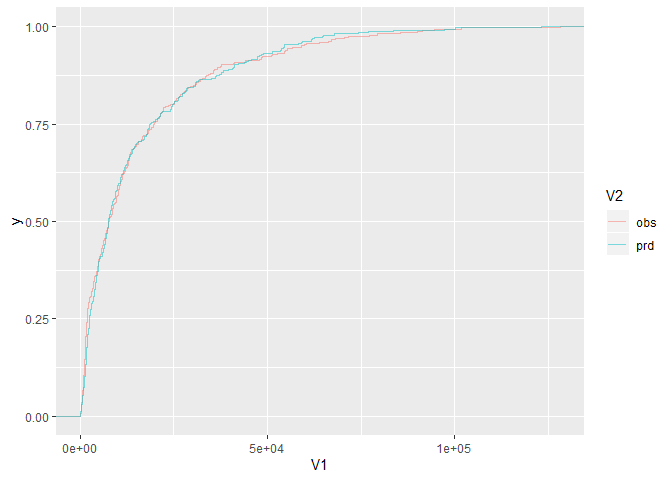
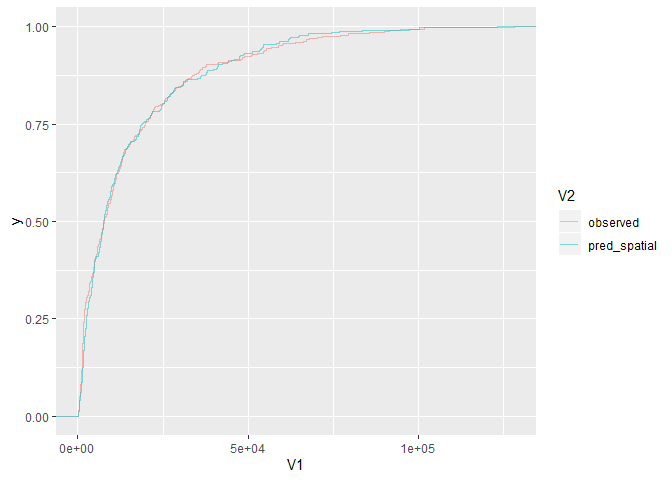
draft 2: fixed some labeling

diff --git a/R/Params/linkHBS_VRI_Calibtation.md b/R/Params/linkHBS_VRI_Calibtation.md
@@ -583,9 +583,9 @@ Here we compare the cummulative dsitributions to see any deviations between the 
 
 ```r
 #ECDF
-auto.2$surf<-"obs"
+auto.2$surf<-"observed"
 obs.1<-cbind(test.auto.data$obs_vol,auto.2$surf)
-auto.2$surf<-"prd"
+auto.2$surf<-"pred_spatial"
 proj.1<-cbind(test.iid.data$mu,auto.2$surf)
 
 data.78<-rbind(obs.1, proj.1)
@@ -647,21 +647,21 @@ Now that the spatial model has passed the modelling assumptions. Let explore the
 
 First, the results from this modelling exercise suggest that the spatial model that accounts for the correlation between residuals is a better model. Using a spherical variogram model allowed individual observations to be weighted more effectively so that the effect of dependance was reduced. This provided a model that produced an estimated total volume that was closer to the observed total volume which is important for determining forestry decisions like AAC targets. 
 
-Next, the effects of the predictor variables in the spatial model showed that the meta-model of vdyp was over predicting total volume in harvet units that had larger volumes. It should be noted that this effect cannot be seperated into errors individually generated by VDYP nor the VRI, but rather their combined effect. The management implications for timber supply models and AAC analysis would be: i) in the strategic design of landscapes, developing more aggregated or larger harvest blocks in terms of is often of interest to reduce the fragmentation of the landscape - however in those cases where the large blocks result in larger volumes, the realized volume from these larger blocks was shown to be considerably less than one would expect from a naive projection using the VRI and the meta-model of vdyp, ii) further there is evidence of greater uncertainty in the AAC if the profile of harvest units are much larger in size, iii) the uncertainty in AAC can be reduced in higher elevation and harvest units with forest structure that is taller in terms of tree height. 
+Next, the effects of the predictor variables in the spatial model showed that the meta-model of vdyp was over predicting total volume in harvest units that had larger volumes. It should be noted that this effect cannot be seperated into errors individually generated by VDYP nor the VRI, but rather it is their combined effect. The management implications for timber supply models and AAC analysis would be: i) in the strategic design of landscapes, developing more aggregated or larger harvest blocks is often of interest to reduce the fragmentation of the landscape - however in those cases where the large blocks result in larger volumes, the realized volume from these larger blocks was shown to be considerably less than one would expect from a naive projection using the VRI and the meta-model of vdyp, ii) further there is evidence of greater uncertainty in the AAC if the profile of harvest units were much larger in size or from highly yielding stands, iii) the uncertainty in AAC can be reduced if the harvest profile prioritizes harvest units at higher elevation and harvest units with forest structure that is taller in terms of tree height. 
 
 I would speculate:
 
-* Harvest units with greater footprint may translate into a larger volume harvested and thus greater uncertainty. These larger units could also mean a greater number of different stands would be incorporated into the harvesting profile. Increasing the number of stands in a harvest profile may increase the probability of including polygons within the VRI that are erroneous. Conversely, for harvest units that are realtively smaller but still result in large volumes (i.e., highly productive areas) the total volume could be overestimated given the meta-model of vdyp was not taking into account other layers within the vertical structure. Thus, the meta-model of vdyp may project did not take into account the competition from other vertical layers. In other words, not accounting for the multi-layered structure of highly productive stands could lead to greater uncertainty.
+* Harvest units with greater footprint may translate into a larger volume harvested and thus greater uncertainty. These larger units could also translate into a greater number of stands into the harvesting profile. Increasing the number of stands in a harvest profile may increase the probability of including polygons within the VRI that are erroneous. Conversely, for harvest units that are realtively smaller but still result in large volumes (i.e., highly productive areas) the total volume could be overestimated from the meta-model of vdyp given the development of the stand would be different if other layers of vertical structure were present. The meta-model of vdyp would not take into account these other vertical layers would would lead to greater uncertainty. In other words, not accounting for the multi-layered structure of highly productive stands could also lead to greater uncertainty.
 
-* Lower elevation stands are likely to support mixed species which the meta model of vdyp and vdyp in general are challenged to predict. Mixed species (and vertical layers as mentioned above) are projected as individual species (or layers) and then aggregated, thus removing the true intimate nature of how these species would grow.
+* Lower elevation stands are likely to support mixed species which challenge the meta model of vdyp and vdyp. Mixed species (and vertical layers as mentioned above) are projected as individual species (or layers) and then aggregated to form a composite projection, thus removing the true intimate nature of how these species would grow.
 
-* Harvest units that have smaller tree heights are uncertain because the meta model of vdyp typically uses sample plots of older mature stands near rotation age to calibrate its algorithums. Since the objective of vdyp is for natural orgin stands near rotation age, these smaller height stands may not be well represented. Stands with smaller heights may be indcative of younger stands and the dynamics of growth and yield are confounded by many processes outside the scope of the model i.e., browsing, disease, frost, establishment delay, etc. 
+* Harvest units that have smaller tree heights are likely to constribute to uncertainty because the meta model of vdyp typically uses sample plots of older mature stands near rotation age to calibrate its algorithums. Since the objective of vdyp is for natural orgin stands near rotation age, these smaller height stands may not be well represented. Further, stands with smaller heights may be indicative of younger aged stands with growth and yield dynamics that may be confounded by other development processes outside the scope of the vdyp model i.e., browsing, disease, frost, establishment delay, etc. 
 
 # Exercises
 
 To demonstrate possible spatial effects of clustering use the calibration model in [forestryCLUS](https://github.com/bcgov/clus/tree/master/R/SpaDES-modules/forestryCLUS). 
 
-# APPENDIX: Comparing the sum of distributional parameters to simulating via monte carlo
+### APPENDIX: Comparing the sum of distributional parameters to simulating via monte carlo
 
 In Robinson et al. (2016), each of the response distributions were summed after sampling 10000 samples from each of the individual harvest unit distributions. However, this is computationally slow ( adds ~ 30 seconds for 326 harvest units). Instead of sampling each individual response distribution -- we can sum the means and sigmas because the individual responses are independant. Here is a comparison between mathematically estimating the total response distribution versus simulating it with many samples. By mathematically estimating the total response distribution, there is a large cost savings (~25 seconds) which when amplified over a simulation model with a 100 year time horizon and annual time step would result in ~ 42 minutes saved per simulation run. 
 
